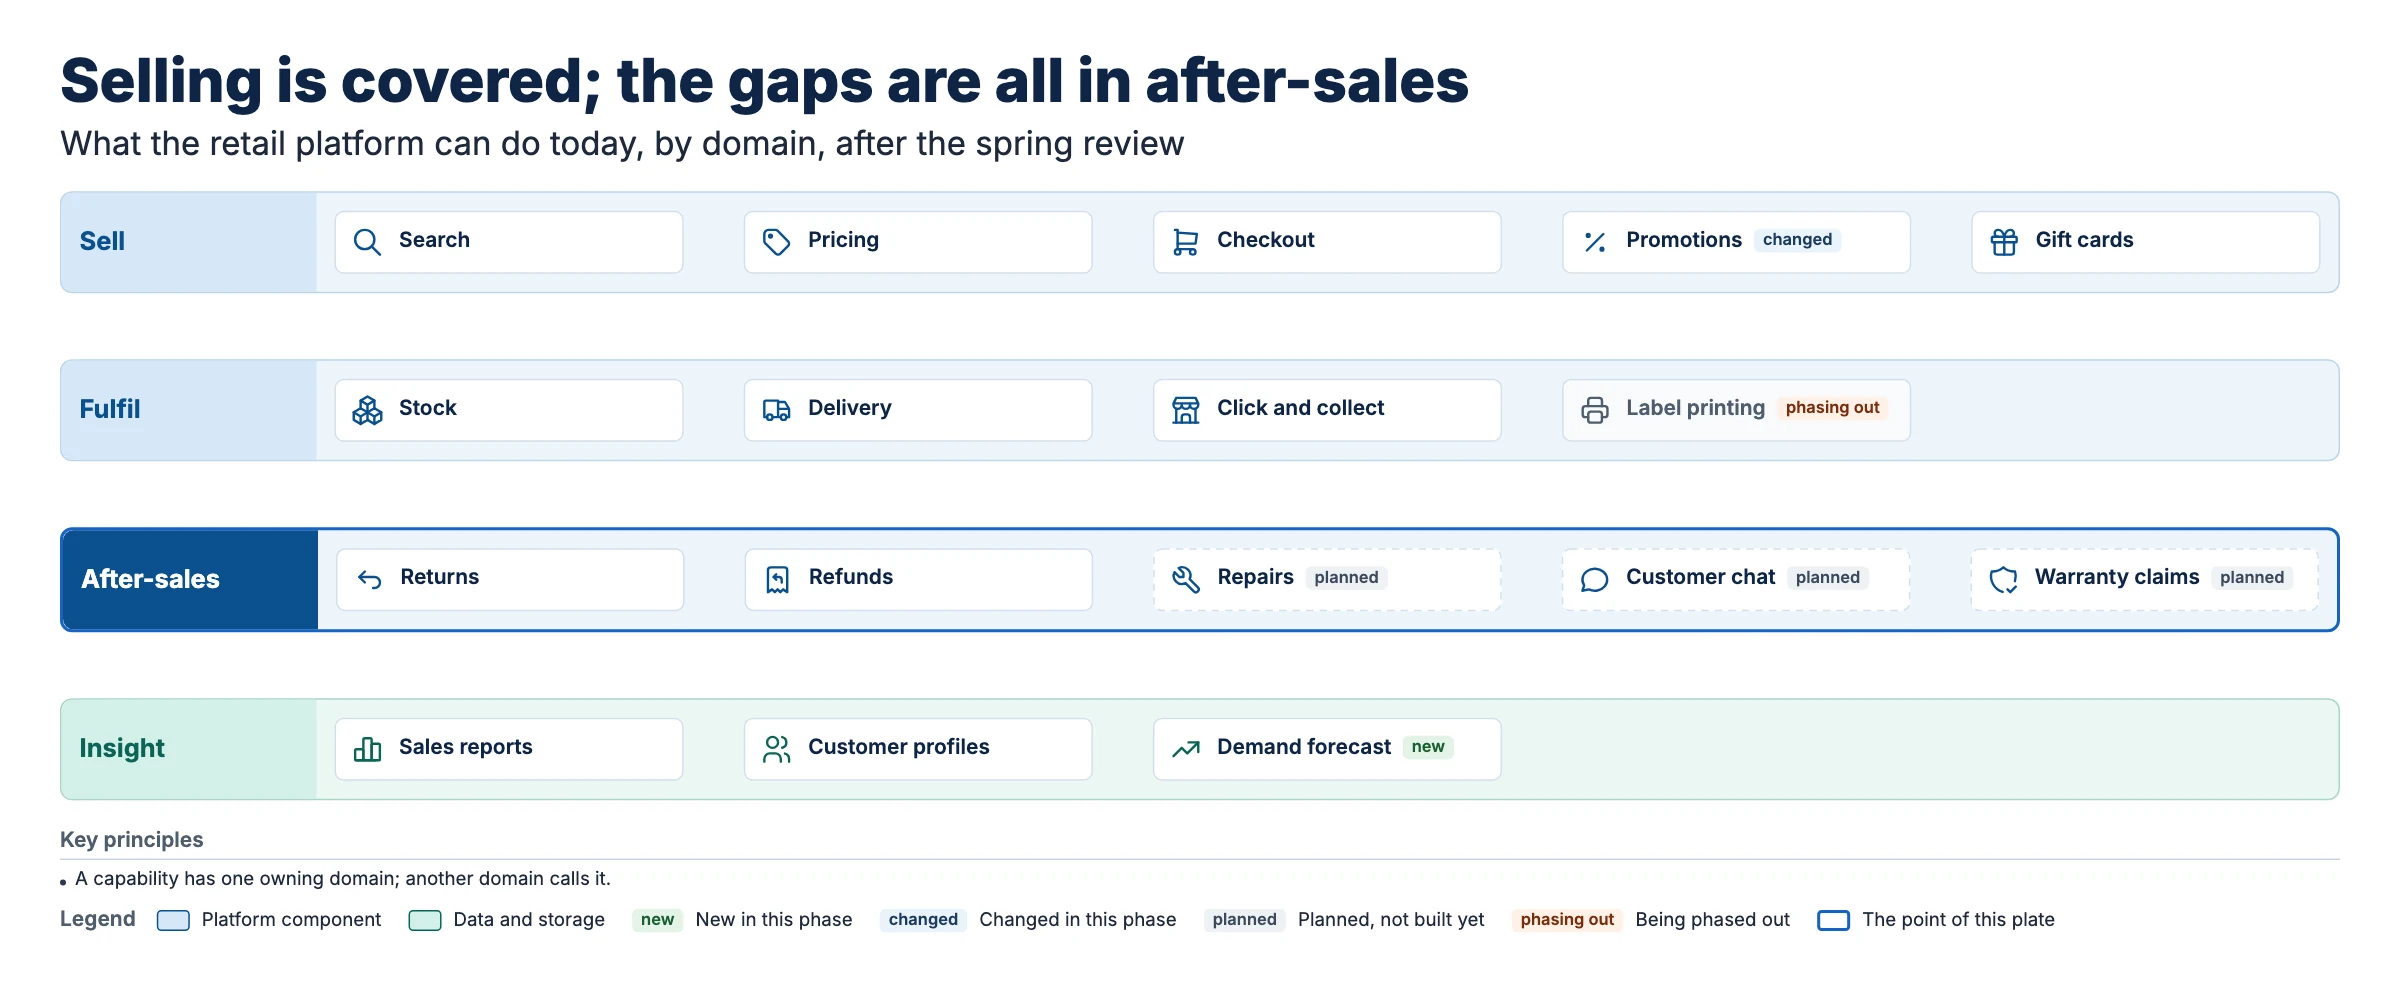
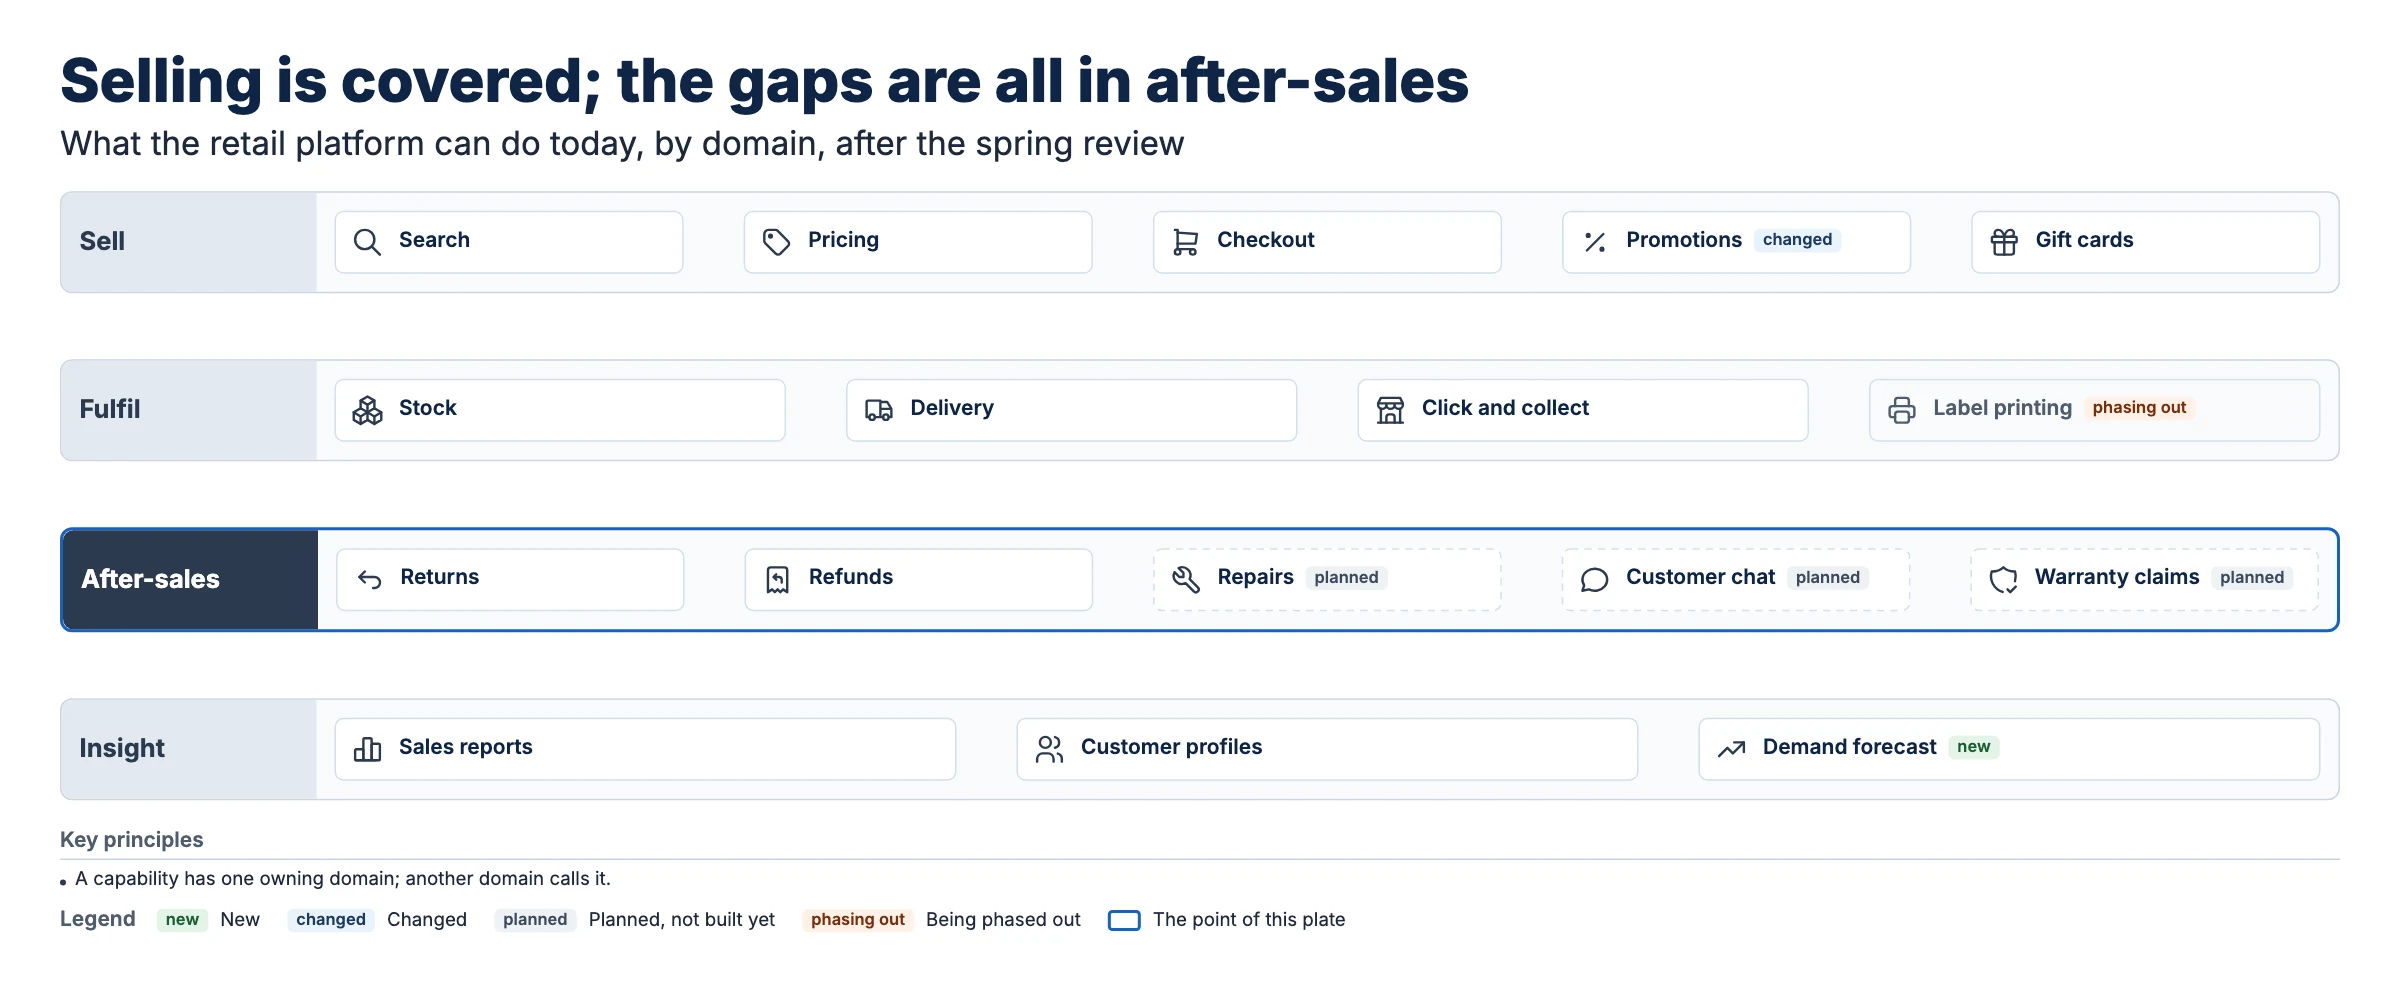
Fit the new layouts to what the judges found
A capability map's short rows ended in a hole and its legend called business domains platform components, in phases it
did not have. A hierarchy said its arrows control, and stretched panels past their content. And the quadrant docs asked
every panel for a verdict, which is how agents came to invent them.

diff --git a/schemantic/archetypes/capability_map.py b/schemantic/archetypes/capability_map.py
@@ -1,6 +1,7 @@
-"""capability-map: what we have, and where the gaps are. One row per domain, its name on the left, capabilities as
-cards in columns that line up down the plate. `status` carries the assessment (planned is a gap, deprecated is on its
-way out), so a reader scans the map without arrows."""
+"""capability-map: what we have, and where the gaps are. One row per domain, its name on the left, its capabilities
+sharing the row's width, so no row ends in a hole; `per_row` lines the columns up instead. `status` carries the
+assessment (planned is a gap, deprecated is on its way out), so a reader scans the map without arrows. Colour stays out
+of it: a domain is neither a platform nor data."""
 from __future__ import annotations
 
 from . import Archetype, GridSpec
@@ -11,13 +12,11 @@ class CapabilityMap(Archetype):
     required = frozenset({"domains"})
     allowed = frozenset({"domains", "per_row", "chips_at"})
     cards_are_things = False
+    legend_roles = False
+    legend_keys = {"status_new": "status_new_plain", "status_changed": "status_changed_plain"}
 
     def placed(self, spec: dict) -> list[str]:
         return spec["layout"]["domains"]
-
-    def width(self, spec: dict) -> int:
-        lay = spec["layout"]
-        return lay.get("per_row") or max(len(p.get("cards", [])) for p in spec["panels"] if p["id"] in lay["domains"])
 
     def grid(self, spec: dict) -> GridSpec:
         return GridSpec(rows=[[d] for d in spec["layout"]["domains"]], columns=["minmax(0, 1fr)"])
@@ -26,7 +25,9 @@ class CapabilityMap(Archetype):
         return set(spec["layout"]["domains"])
 
     def panel_defaults(self, spec: dict, panel: dict) -> dict:
-        return {"lane": True, "card_columns": self.width(spec)} if panel["id"] in spec["layout"]["domains"] else {}
+        if panel["id"] not in spec["layout"]["domains"]:
+            return {}
+        return {"lane": True, "role": "frame", "card_columns": spec["layout"].get("per_row") or max(len(panel.get("cards", [])), 1)}
 
 
 ARCHETYPE = CapabilityMap()

diff --git a/schemantic/html.py b/schemantic/html.py
@@ -62,9 +62,10 @@ def matrix_values(pt: dict) -> list[str]:
 def legend_entries(spec: dict, loc: dict, theme_css: str = "") -> list[dict]:
     """The legend, generated from what the plate uses: roles, what arrows mean and their styles, steps, change
     statuses, focus, and chip or flag kinds."""
-    lg, lang = loc["legend"], spec["canvas"]["lang"]
+    arche, lang = archetypes.get(spec["archetype"]), spec["canvas"]["lang"]
+    lg = {k: loc["legend"][arche.legend_keys.get(k, k)] for k in loc["legend"]}
     entries, seen = [], []
-    for p in spec["panels"] if archetypes.get(spec["archetype"]).legend_roles else []:
+    for p in spec["panels"] if arche.legend_roles else []:
         role = p["role"]
         if role not in seen:
             seen.append(role)
@@ -75,8 +76,7 @@ def legend_entries(spec: dict, loc: dict, theme_css: str = "") -> list[dict]:
         entries.append({"kind": "arrow", "key": "arrow", "label": lg[f"mean_{mean}"] if mean else lg["arrow"]})
         # The meaning entry already shows a solid arrow, so only the other line styles get an entry.
         styles = [s for s in ("async", "optional") if any(f.get("style") == s for f in flows)]
-        keys = {"async": archetypes.get(spec["archetype"]).dashed_means, "optional": "style_optional"}
-        entries += [{"kind": "line", "key": s, "label": lg[keys[s]]} for s in styles]
+        entries += [{"kind": "line", "key": s, "label": lg[f"style_{s}"]} for s in styles]
         if any(f.get("step") for f in flows):  # a drawn story's steps are its route: the legend names it
             story = drawn_story(spec)
             entries.append({"kind": "step", "key": "step", "label": story["name"] if story else lg["step"]})

diff --git a/tests/test_archetypes.py b/tests/test_archetypes.py
@@ -69,10 +69,17 @@ def test_a_dashed_message_is_a_reply_in_the_legend():
     assert "Reply or event" in {e["label"] for e in legend_entries(SEQUENCE, load_locale("en"))}
 
 
+def test_a_map_has_no_phases_and_a_tree_leads():
+    from schemantic.html import legend_entries
+    from schemantic.spec import load_locale
+    assert "New" in {e["label"] for e in legend_entries(MAP, load_locale("en"))}
+    assert "Leads" in {e["label"] for e in legend_entries(archetypes.get("hierarchy").expand(HIERARCHY), load_locale("en"))}
+
+
 def test_comparison_and_quadrant_keep_panel_colours_out_of_the_legend():
     from schemantic.html import legend_entries
     from schemantic.spec import load_locale
-    for spec in (COMPARISON, QUADRANT):
+    for spec in (COMPARISON, QUADRANT, MAP):
         assert "role" not in {e["kind"] for e in legend_entries(spec, load_locale("en"))}
 
 
@@ -111,5 +118,8 @@ def test_a_plate_with_nothing_to_explain_has_no_empty_legend(tmp_path):
     assert "Legend" not in (tmp_path / "_work" / "q.svg").read_text(encoding="utf-8")
 
 
-def test_capability_map_lines_up_its_columns():
-    assert archetypes.get("capability-map").panel_defaults(MAP, panel(MAP, "insight"))["card_columns"] == 5
+def test_capability_map_rows_share_their_width_unless_columns_are_asked_for():
+    arche = archetypes.get("capability-map")
+    assert arche.panel_defaults(MAP, panel(MAP, "insight"))["card_columns"] == 3
+    lined = {**MAP, "layout": {**MAP["layout"], "per_row": 5}}
+    assert arche.panel_defaults(lined, panel(MAP, "insight"))["card_columns"] == 5

diff --git a/schemantic/archetypes/__init__.py b/schemantic/archetypes/__init__.py
@@ -31,7 +31,7 @@ class Archetype:
     allowed: frozenset[str] = frozenset()    # layout keys it accepts (chips_at applies to every one)
     router_hints: dict = {}                   # reserved for layouts that prefer certain channels
     max_cards: int = 6                        # cards in one panel; a lifeline needs more, as it has one per moment
-    dashed_means: str = "style_async"         # the locale key of the legend's line for a dashed arrow
+    legend_keys: dict = {}                    # legend locale keys this layout reads differently (a reply, not "async")
     legend_roles: bool = True                 # False when a panel's colour means nothing on this layout
     cards_are_things: bool = True             # False when cards are steps or verdicts, so their icons do not say who
 

diff --git a/schemantic/archetypes/hierarchy.py b/schemantic/archetypes/hierarchy.py
@@ -13,6 +13,7 @@ class Hierarchy(Archetype):
     name = "hierarchy"
     required = frozenset({"root", "children"})
     allowed = frozenset({"root", "children", "chips_at"})
+    legend_keys = {"mean_control": "mean_leads"}
 
     def placed(self, spec: dict) -> list[str]:
         return [spec["layout"]["root"]] + [c for kids in spec["layout"]["children"].values() for c in kids]
@@ -62,9 +63,6 @@ class Hierarchy(Archetype):
     def expand(self, spec: dict) -> dict:
         tree = [{"from": parent, "to": kid} for parent, kids in spec["layout"]["children"].items() for kid in kids or []]
         return {**spec, "flows": tree + spec.get("flows", [])}
-
-    def panel_defaults(self, spec: dict, panel: dict) -> dict:
-        return {"cell": True}
 
 
 ARCHETYPE = Hierarchy()

diff --git a/schemantic/archetypes/sequence.py b/schemantic/archetypes/sequence.py
@@ -13,7 +13,7 @@ class Sequence(Archetype):
     allowed = frozenset({"participants", "chips_at"})
     cards_are_things = False
     max_cards = 12
-    dashed_means = "style_reply"
+    legend_keys = {"style_async": "style_reply"}
 
     def placed(self, spec: dict) -> list[str]:
         return spec["layout"]["participants"]

diff --git a/references/archetypes.md b/references/archetypes.md
@@ -195,19 +195,21 @@ layout:
 
 ## capability-map
 
-What we can do, and where the gaps are. One row per domain, capabilities as cards in columns that line up down the
-plate. No arrows: `status` is the assessment, so the gaps show at a glance.
+What we can do, and where the gaps are. One row per domain, its capabilities sharing the row's width. No arrows:
+`status` is the assessment, so the gaps show at a glance.
 
 <!-- lint: examples/retail-capability-map.yaml -->
 ```yaml
 archetype: capability-map
 layout:
   domains: [sell, fulfil, aftersales, insight]   # 2 to 6 rows, top first
-  per_row: 5                                     # optional: cards per row; default, the fullest domain
+  per_row: 5                                     # optional: columns that line up; a shorter row then ends in a gap
 ```
 
-- `planned` is a gap, `deprecated` is on its way out, no status is in place. Only use what the sources assess.
-- `focus: true` on the domain the title is about. Flows are allowed, but a map that needs many is a column-flow.
+- `planned` is a gap, `deprecated` is on its way out, no status is in place. Only use what the sources assess: a thing
+  that works on a scheduler being replaced is not itself on its way out.
+- `focus: true` on the domain the title is about. Panel colours stay out of the legend. Flows are allowed, but a map that
+  needs many is a column-flow.
 - The title claims the finding ("Selling is covered; the gaps are all in after-sales"), not "capability overview".
 - Example: `examples/retail-capability-map.yaml`.
 
@@ -248,7 +250,7 @@ layout:
 ```
 
 - Up to 4 levels and 8 panels at the ends of the tree; each panel has one parent. Say `flows_mean` for what the tree
-  means: `control` for reporting lines, `dependency` for what is made of what.
+  means: `control` for reporting lines (the legend says "Leads"), `dependency` for what is made of what.
 - `flows` are only for what cuts across the tree, and are drawn on top of the tree's own arrows.
 - Example: `examples/platform-org-hierarchy.yaml`.
 
@@ -266,6 +268,8 @@ layout:
   cells: [first, plan, later, leave]  # left to right, top row first
 ```
 
-- Each panel's title says what to do with what is in it ("Move first"), and each card's note why it sits there.
+- Title a panel with what the sources decide about it ("Move first"). Where they decide nothing, name its place ("High
+  value, high effort"): a verdict you made up is an invention, however natural it reads. A note says why a card sits
+  there only if the sources do; repeating the axes adds nothing.
 - `focus: true` on the quadrant the title is about. Panel colours stay out of the legend.
 - Example: `examples/migration-quadrant.yaml`.
